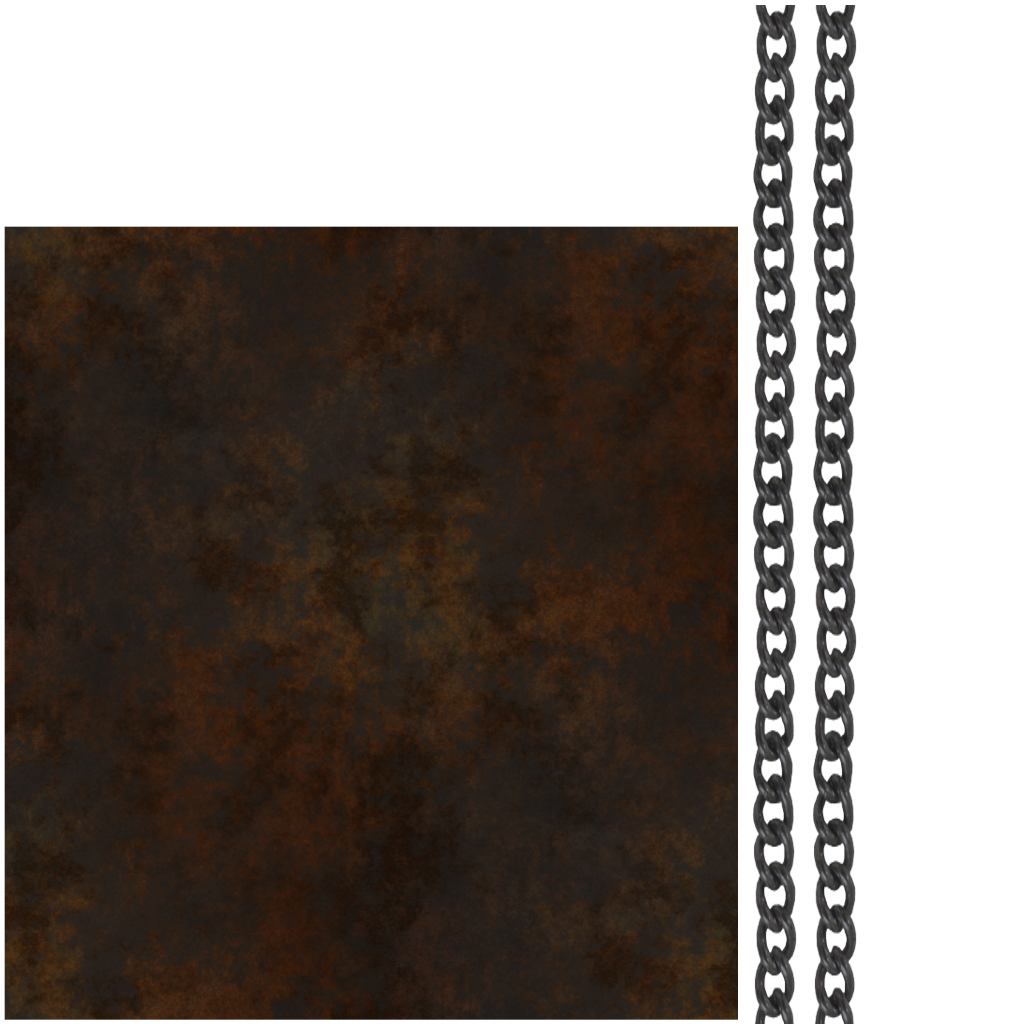
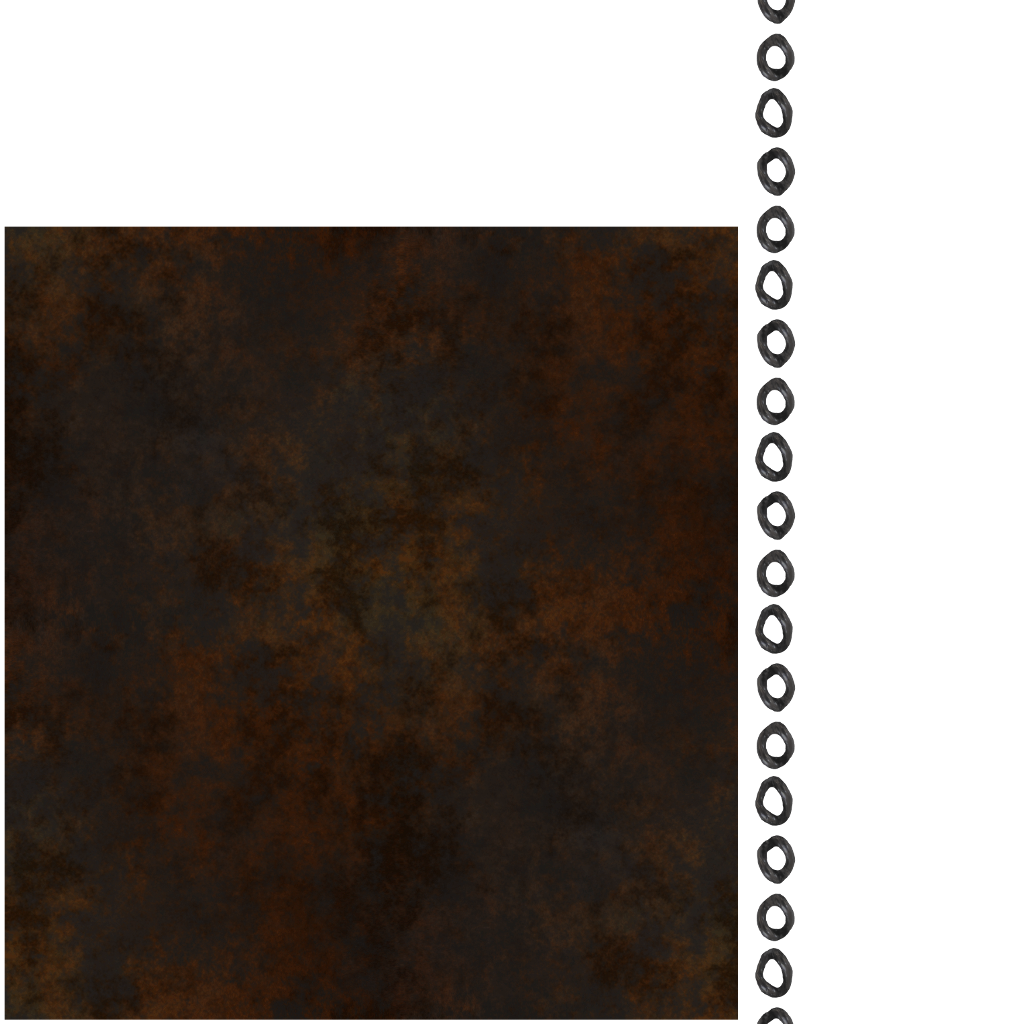
Updated torch-hanging-01.

Changed region(s): [[0.7188, 0.0, 0.8438, 1.0]]

diff --git a/assets/models/torch-hanging-01/torch-hanging-01.js b/assets/models/torch-hanging-01/torch-hanging-01.js
@@ -27,9 +27,8 @@
 		"depthTest" : true,
 		"depthWrite" : true,
 		"mapDiffuse" : "diffuse.png",
-		"mapBump" : "diffuse.png",
-		"mapBumpScale" : 0.04,
-		"mapSpecular" : "specular.png",
+		"mapNormalBump" : "normal.jpg",
+		"mapSpecular" : "specular.jpg",
 		"shading" : "Phong",
 		"specularCoef" : 70,
 		"transparency" : 0.0,
@@ -38,12 +37,12 @@
 		"doubleSided" : true
 	}],
 
-	"vertices" : [0.319362,0.0597576,-1.19188,-0.319362,0.0597576,-1.19188,-0.872513,0.0597576,-0.87252,-1.19187,0.0597576,-0.319369,-1.19187,0.0597576,0.319354,-0.872513,0.0597577,0.872505,-0.319362,0.0597577,1.19187,0.319361,0.0597577,1.19187,0.872512,0.0597577,0.872505,1.19187,0.0597576,0.319355,1.19187,0.0597576,-0.319368,0.872513,0.0597576,-0.872519,0.120244,-0.6546,-0.448757,-0.120244,-0.6546,-0.448757,-0.328513,-0.6546,-0.328513,-0.448757,-0.6546,-0.120244,-0.448757,-0.6546,0.120244,-0.328513,-0.6546,0.328513,-0.120244,-0.6546,0.448757,0.120244,-0.6546,0.448757,0.328513,-0.6546,0.328513,0.448757,-0.6546,0.120244,0.448757,-0.6546,-0.120244,0.328513,-0.6546,-0.328513,0.342681,0.221341,-1.2789,-0.342681,0.221341,-1.2789,-0.936222,0.221341,-0.936222,-1.2789,0.221341,-0.342681,-1.2789,0.221341,0.342681,-0.936222,0.221341,0.936221,-0.342681,0.221341,1.2789,0.342681,0.221341,1.2789,0.936221,0.221341,0.936222,1.2789,0.221341,0.342681,1.2789,0.221341,-0.34268,0.936222,0.221341,-0.936221,0.292752,1.05274,-1.09257,-0.292752,1.05274,-1.09257,-0.799814,1.05274,-0.799814,-1.09257,1.05274,-0.292752,-1.09257,1.05274,0.292752,-0.799814,1.05274,0.799814,-0.292752,1.05274,1.09257,0.292752,1.05274,1.09257,0.799814,1.05274,0.799814,1.09257,1.05274,0.292753,1.09257,1.05274,-0.292752,0.799815,1.05274,-0.799814,-1.14255,0.0999503,0.0012302,-1.27734,0.0999503,0.00122781,0.148086,6.54813,-8.06564e-05,-0.147259,6.54814,-8.0657e-05,1.27735,0.0999503,-0.000165127,1.14254,0.0999503,-0.000166324,-1.19187,0.0597576,0.106446,-1.19187,0.0597576,-0.106461,-0.448757,-0.6546,0.0400815,-0.448757,-0.6546,-0.0400813,1.19187,0.0597576,-0.106461,1.19187,0.0597576,0.106447,0.448757,-0.6546,-0.040081,0.448757,-0.6546,0.0400817,-1.19187,0.26242,0.106446,-1.19187,0.26242,-0.106461,1.19187,0.26242,-0.106461,1.19187,0.26242,0.106447,0.344469,0.637038,-1.28557,-0.344469,0.637038,-1.28557,1.28557,0.637038,-0.344468,0.941106,0.637038,-0.941105,1.28557,0.637038,0.344469,0.941105,0.637038,0.941106,-0.344469,0.637038,1.28557,0.344468,0.637038,1.28557,-1.28557,0.637038,0.344469,-0.941106,0.637038,0.941106,-0.941106,0.637038,-0.941106,-1.28557,0.637038,-0.344469,-1.31725,0.427358,0.0011601,-0.981599,0.427357,0.00116578,0.981623,0.427358,-0.000163474,1.31732,0.427357,-0.000160631,0.91805,-0.347396,-0.24599,0.672059,-0.347396,-0.672059,-0.672059,-0.347396,0.672059,-0.245991,-0.347396,0.918049,0.245991,-0.347396,-0.91805,-0.245991,-0.347396,-0.91805,0.24599,-0.347396,0.91805,-0.672059,-0.347396,-0.672059,0.672059,-0.347396,0.672059,-0.91805,-0.347396,-0.245991,0.918049,-0.347396,0.245991,-0.91805,-0.347396,0.245991,-0.91805,-0.347396,0.0819969,-0.91805,-0.347396,-0.0819968,0.91805,-0.347396,-0.0819964,0.91805,-0.347396,0.0819974],
+	"vertices" : [0.319362,0.159758,-1.19188,-0.319362,0.159758,-1.19188,-0.872513,0.159758,-0.87252,-1.19187,0.159758,-0.319369,-1.19187,0.159758,0.319354,-0.872513,0.159758,0.872505,-0.319362,0.159758,1.19187,0.319361,0.159758,1.19187,0.872512,0.159758,0.872505,1.19187,0.159758,0.319355,1.19187,0.159758,-0.319368,0.872513,0.159758,-0.872519,0.120244,-0.5546,-0.448757,-0.120244,-0.5546,-0.448757,-0.328513,-0.5546,-0.328513,-0.448757,-0.5546,-0.120244,-0.448757,-0.5546,0.120244,-0.328513,-0.5546,0.328513,-0.120244,-0.5546,0.448757,0.120244,-0.5546,0.448757,0.328513,-0.5546,0.328513,0.448757,-0.5546,0.120244,0.448757,-0.5546,-0.120244,0.328513,-0.5546,-0.328513,0.342681,0.321341,-1.2789,-0.342681,0.321341,-1.2789,-0.936222,0.321341,-0.936222,-1.2789,0.321341,-0.342681,-1.2789,0.321341,0.342681,-0.936222,0.321341,0.936221,-0.342681,0.321341,1.2789,0.342681,0.321341,1.2789,0.936221,0.321341,0.936222,1.2789,0.321341,0.342681,1.2789,0.321341,-0.34268,0.936222,0.321341,-0.936221,0.292752,1.15274,-1.09257,-0.292752,1.15274,-1.09257,-0.799814,1.15274,-0.799814,-1.09257,1.15274,-0.292752,-1.09257,1.15274,0.292752,-0.799814,1.15274,0.799814,-0.292752,1.15274,1.09257,0.292752,1.15274,1.09257,0.799814,1.15274,0.799814,1.09257,1.15274,0.292753,1.09257,1.15274,-0.292752,0.799815,1.15274,-0.799814,-1.19187,0.159758,0.106446,-1.19187,0.159758,-0.106461,-0.448757,-0.5546,0.0400815,-0.448757,-0.5546,-0.0400813,1.19187,0.159758,-0.106461,1.19187,0.159758,0.106447,0.448757,-0.5546,-0.040081,0.448757,-0.5546,0.0400817,-1.19187,0.36242,0.106446,-1.19187,0.36242,-0.106461,1.19187,0.36242,-0.106461,1.19187,0.36242,0.106447,0.344469,0.737038,-1.28557,-0.344469,0.737038,-1.28557,1.28557,0.737038,-0.344468,0.941106,0.737038,-0.941105,1.28557,0.737038,0.344469,0.941105,0.737038,0.941106,-0.344469,0.737038,1.28557,0.344468,0.737038,1.28557,-1.28557,0.737038,0.344469,-0.941106,0.737038,0.941106,-0.941106,0.737038,-0.941106,-1.28557,0.737038,-0.344469,0.91805,-0.247396,-0.24599,0.672059,-0.247396,-0.672059,-0.672059,-0.247396,0.672059,-0.245991,-0.247396,0.918049,0.245991,-0.247396,-0.91805,-0.245991,-0.247396,-0.91805,0.24599,-0.247396,0.91805,-0.672059,-0.247396,-0.672059,0.672059,-0.247396,0.672059,-0.91805,-0.247396,-0.245991,0.918049,-0.247396,0.245991,-0.91805,-0.247396,0.245991,-0.91805,-0.247396,0.0819969,-0.91805,-0.247396,-0.0819968,0.91805,-0.247396,-0.0819964,0.91805,-0.247396,0.0819973,-1.05292,0.216035,-0.00135771,-1.34371,0.27047,-0.00135771,0.146057,6.62092,-0.00135802,-0.144733,6.67536,-0.00135803,-1.19831,0.243252,-0.149278,-1.19831,0.243252,0.146563,0.000661684,6.64814,-0.149278,0.00066167,6.64814,0.146562,-1.05292,0.216035,-0.00135771,-1.34371,0.27047,-0.00135771,0.146057,6.62092,-0.00135802,-0.144733,6.67536,-0.00135803,-1.19831,0.243252,-0.149278,-1.19831,0.243252,0.146563,0.000661684,6.64814,-0.149278,0.00066167,6.64814,0.146562,1.05292,0.216035,0.00135778,1.34371,0.27047,0.0013578,-0.146057,6.62092,0.00135743,0.144733,6.67536,0.00135745,1.19831,0.243252,0.149278,1.19831,0.243252,-0.146563,-0.000661697,6.64814,0.149278,-0.000661657,6.64814,-0.146563,1.05292,0.216035,0.00135778,1.34371,0.27047,0.0013578,-0.146057,6.62092,0.00135743,0.144733,6.67536,0.00135745,1.19831,0.243252,0.149278,1.19831,0.243252,-0.146563,-0.000661697,6.64814,0.149278,-0.000661657,6.64814,-0.146563],
 
-	"normals" : [0.500351,-0.706565,-0.500351,0.683523,-0.706565,-0.183142,0.308847,-0.947478,-0.082797,0.226081,-0.947478,-0.226173,-0.183142,-0.706565,0.683523,-0.500351,-0.706565,0.500351,-0.226142,-0.947478,0.226051,-0.082797,-0.947478,0.308847,-0.183142,-0.706565,-0.683523,0.183142,-0.706565,-0.683523,0.082736,-0.947447,-0.308939,-0.082766,-0.947447,-0.308939,0.183142,-0.706565,0.683523,0.082736,-0.947478,0.308847,-0.500351,-0.706565,-0.500351,-0.226142,-0.947447,-0.226173,0.500351,-0.706565,0.500351,0.226081,-0.947478,0.226081,-0.683523,-0.706565,-0.183142,-0.308908,-0.947447,-0.082797,0.683523,-0.706565,0.183142,0.308847,-0.947478,0.082705,-0.702689,-0.711478,0,-0.285775,-0.958281,-6.1e-05,0.702689,-0.711478,0,0.285714,-0.958281,-3.1e-05,-0.683523,-0.706565,0.183142,-0.308908,-0.947478,0.082705,-0.840266,-0.242042,-0.485122,-0.654164,-0.538469,-0.531083,-0.787011,-0.538469,-0.301004,-0.840266,-0.242073,0.485122,-0.840236,-0.242073,0.485122,-0.787011,-0.538499,0.300974,-0.654164,-0.538469,0.531083,0,-0.242073,0.970244,-0.132817,-0.538499,0.832057,0.132817,-0.538499,0.832057,0.840236,-0.242073,0.485122,0.840266,-0.242073,0.485122,0.654164,-0.538469,0.531083,0.787011,-0.538499,0.300974,0.840266,-0.242042,-0.485122,0.787011,-0.538469,-0.301004,0.654164,-0.538469,-0.531083,0.132817,-0.538469,-0.832087,-0.132817,-0.538469,-0.832087,0,-0.242042,-0.970244,0.848567,0.199744,-0.489914,0,0.199744,-0.979827,-0.848567,0.199744,0.489914,0.848567,0.199744,0.489914,-0.848567,0.199744,-0.489914,0,0.199744,0.979827,0,-0.000183,-0.999969,0,-0.000183,-1,0,0,-1,0,-9.2e-05,-1,0,-6.1e-05,-0.999969,0.922086,-0.386944,0,1,0,0,-0.922086,-0.386944,0,-1,0,0,0,0.421094,-0.90698,0.785485,0.421094,-0.453475,0.785485,0.421094,0.453475,0,0.421094,0.90698,-0.785485,0.421094,0.453475,-0.785485,0.421094,-0.453475,0,0,-0.999969],
+	"normals" : [0.500351,-0.706565,-0.500351,0.683523,-0.706565,-0.183142,0.308847,-0.947478,-0.082797,0.226081,-0.947478,-0.226173,-0.183142,-0.706565,0.683523,-0.500351,-0.706565,0.500351,-0.226142,-0.947478,0.226081,-0.082797,-0.947478,0.308847,-0.183142,-0.706565,-0.683523,0.183142,-0.706565,-0.683523,0.082736,-0.947447,-0.308939,-0.082766,-0.947447,-0.308939,0.183142,-0.706565,0.683523,0.082736,-0.947478,0.308847,-0.500351,-0.706565,-0.500351,-0.226142,-0.947447,-0.226142,0.500351,-0.706565,0.500351,0.226081,-0.947478,0.226081,-0.683523,-0.706565,-0.183142,-0.308908,-0.947447,-0.082797,0.683523,-0.706565,0.183142,0.308847,-0.947478,0.082705,-0.702689,-0.711478,0,-0.285775,-0.958281,-3.1e-05,0.702689,-0.711478,0,0.285745,-0.958281,-3.1e-05,-0.683523,-0.706565,0.183142,-0.308908,-0.947478,0.082705,-0.840266,-0.242042,-0.485122,-0.654164,-0.538469,-0.531083,-0.787011,-0.538469,-0.301004,-0.840266,-0.242073,0.485122,-0.840236,-0.242073,0.485122,-0.787011,-0.538499,0.300974,-0.654164,-0.538469,0.531083,0,-0.242073,0.970244,-0.132817,-0.538499,0.832057,0.132817,-0.538499,0.832057,0.840236,-0.242073,0.485122,0.840266,-0.242073,0.485122,0.654164,-0.538469,0.531083,0.787011,-0.538499,0.300974,0.840266,-0.242042,-0.485122,0.787011,-0.538469,-0.301004,0.654164,-0.538469,-0.531083,0.132817,-0.538469,-0.832087,-0.132817,-0.538469,-0.832087,0,-0.242042,-0.970244,0.285714,-0.958281,-3.1e-05,0.848567,0.199744,-0.489914,0,0.199744,-0.979827,-0.848567,0.199744,0.489914,0.848567,0.199744,0.489914,-0.848567,0.199744,-0.489914,0,0.199744,0.979827,0.922086,-0.386944,0,1,0,0,-0.922086,-0.386944,0,-1,0,0,0,0.421094,-0.90698,0.785485,0.421094,-0.453475,0.785485,0.421094,0.453475,0,0.421094,0.90698,-0.785485,0.421094,0.453475,-0.785485,0.421094,-0.453475,0,0,0.999969,0,0,1,0.98291,-0.183996,0,0,0,-0.999969,0,0,-1,-0.98291,-0.183996,0],
 
-	"uvs" : [[0.449168,0.285721,0.481921,0.342015,0.415339,0.359483,0.400678,0.334763,0.330141,0.487503,0.276409,0.457591,0.322153,0.40867,0.346802,0.422962,0.329978,0.253051,0.393674,0.253816,0.376234,0.320114,0.34773,0.319626,0.391332,0.487271,0.375109,0.422814,0.27388,0.284234,0.322635,0.333524,0.445442,0.458487,0.400098,0.409417,0.240791,0.340445,0.307545,0.358279,0.479205,0.406101,0.414981,0.384988,0.240304,0.362025,0.307414,0.366878,0.481418,0.385028,0.415271,0.376512,0.242992,0.404697,0.307571,0.384027,0.12991,0.304585,0.189555,0.205553,0.229052,0.238084,0.177745,0.323386,0.202137,0.53242,0.144141,0.446791,0.18488,0.426332,0.236252,0.50218,0.410866,0.589212,0.309714,0.589211,0.315491,0.544998,0.40509,0.544999,0.577431,0.449152,0.518598,0.534024,0.484861,0.503462,0.536975,0.428283,0.534058,0.20761,0.592723,0.306956,0.544995,0.325491,0.49437,0.239925,0.409923,0.193149,0.31408,0.192078,0.308429,0.144714,0.416632,0.145924,0.307391,0.375484,0.415358,0.367985,0.594691,0.170904,0.655083,0.271638,0.308881,0.079073,0.417648,0.08029,0.150344,0.567824,0.092046,0.481749,0.62907,0.48462,0.56993,0.569935,0.067739,0.268651,0.129125,0.168248,0.41113,0.650572,0.30945,0.650571,0.732414,0.061502,0.746382,0.010043,0.765005,0.006807,0.778791,0.053443,0.794992,0.053392,0.841344,0.061618,0.837899,0.993193,0.794992,0.985577,0.24096,0.38355,0.482249,0.363561,0.543444,0.395274,0.546182,0.360605,0.580903,0.363347,0.578165,0.398016,0.176283,0.358523,0.178727,0.393239,0.143959,0.395686,0.141515,0.36097,0.317855,0.006807,0.410292,0.00784,0.666239,0.13829,0.717564,0.2239,0.681387,0.530367,0.631126,0.602874,0.403496,0.718215,0.317082,0.718215,0.088706,0.600146,0.03916,0.526994,0.005553,0.220277,0.057723,0.134948,0.732415,0.993103,0.775349,0.985643,0.808952,0.006807,0.827565,0.01011]],
+	"uvs" : [[0.441406,0.330078,0.47168,0.382812,0.407227,0.399414,0.393555,0.37793,0.330078,0.515625,0.28125,0.488281,0.325195,0.442383,0.34668,0.454102,0.330078,0.300781,0.388672,0.300781,0.37207,0.365234,0.34668,0.365234,0.386719,0.516602,0.37207,0.454102,0.27832,0.330078,0.325195,0.376953,0.436523,0.490234,0.393555,0.442383,0.24707,0.381836,0.311523,0.398438,0.46875,0.441406,0.407227,0.420898,0.24707,0.402344,0.311523,0.40625,0.470703,0.422852,0.407227,0.414062,0.249023,0.44043,0.311523,0.420898,0.151367,0.354492,0.208008,0.260742,0.230469,0.280273,0.179688,0.364258,0.222656,0.553711,0.166992,0.477539,0.189453,0.464844,0.240234,0.536133,0.404297,0.600586,0.313477,0.599609,0.316406,0.575195,0.400391,0.576172,0.550781,0.478516,0.495117,0.554688,0.477539,0.537109,0.52832,0.466797,0.511719,0.261719,0.567383,0.355469,0.539062,0.365234,0.489258,0.28125,0.40625,0.237305,0.313477,0.237305,0.30957,0.209961,0.410156,0.209961,0.311523,0.414062,0.407227,0.40625,0.569336,0.226562,0.628906,0.322266,0.30957,0.149414,0.410156,0.149414,0.176758,0.586914,0.121094,0.509766,0.59668,0.511719,0.541016,0.587891,0.09082,0.319336,0.150391,0.224609,0.40332,0.655273,0.3125,0.655273,0.248047,0.421875,0.47168,0.40332,0.537109,0.43457,0.541016,0.400391,0.573242,0.404297,0.569336,0.438477,0.177734,0.398438,0.181641,0.433594,0.149414,0.436523,0.145508,0.402344,0.317383,0.083008,0.402344,0.083008,0.637695,0.194336,0.6875,0.275391,0.642578,0.554688,0.595703,0.619141,0.396484,0.716797,0.318359,0.71582,0.121094,0.617188,0.074219,0.552734,0.032227,0.272461,0.083008,0.192383,0.77832,0.970703,0.736328,0.970703,0.736328,0.029297,0.77832,0.029297,0.77832,0.945312,0.736328,0.945312,0.736328,0.003906,0.77832,0.003906,0.821289,0.970703,0.821289,0.029297]],
 
-	"faces" : [43,83,82,22,23,0,0,1,2,3,0,1,2,3,43,85,84,17,18,0,4,5,6,7,4,5,6,7,43,87,86,12,13,0,8,9,10,11,8,9,10,11,43,83,23,12,86,0,0,3,10,9,0,3,10,9,43,88,85,18,19,0,12,4,7,13,12,4,7,13,43,89,87,13,14,0,14,8,11,15,14,8,11,15,43,90,88,19,20,0,16,12,13,17,16,12,13,17,43,91,89,14,15,0,18,14,15,19,18,14,15,19,43,92,90,20,21,0,20,16,17,21,20,16,17,21,43,95,91,15,57,0,22,18,19,23,22,18,19,23,43,97,92,21,61,0,24,20,21,25,24,20,21,25,43,84,93,16,17,0,5,26,27,6,5,26,27,6,43,27,26,2,3,0,28,29,30,31,28,28,29,30,43,29,28,4,5,0,32,33,34,35,31,32,33,34,43,31,30,6,7,0,36,37,38,39,35,35,36,37,43,33,32,8,9,0,40,41,42,43,38,39,40,41,43,35,34,10,11,0,44,45,46,47,42,42,43,44,43,0,1,25,24,0,48,49,50,51,45,46,47,47,42,20,19,18,0,17,13,7,17,13,7,42,20,18,17,0,17,7,6,17,7,6,42,21,20,17,0,21,17,6,21,17,6,42,21,17,16,0,21,6,27,21,6,27,42,61,21,16,0,25,21,27,25,21,27,42,61,16,56,0,25,27,52,25,27,23,42,60,61,56,0,53,25,52,25,25,23,42,60,56,57,0,53,52,23,25,23,23,42,22,60,57,0,2,53,23,2,25,23,42,22,57,15,0,2,23,19,2,23,19,42,23,22,15,0,3,2,19,3,2,19,42,14,23,15,0,15,3,19,15,3,19,42,14,12,23,0,15,10,3,15,10,3,42,14,13,12,0,15,11,10,15,11,10,43,69,68,34,35,0,54,55,45,44,48,48,42,42,43,67,66,24,25,0,56,57,51,50,49,49,47,47,43,75,74,28,29,0,58,59,33,32,50,50,32,31,43,70,71,32,33,0,60,61,41,40,51,51,39,38,43,77,76,26,27,0,62,63,29,28,52,52,28,28,43,73,72,30,31,0,64,65,37,36,53,53,35,35,43,79,48,49,78,0,66,67,68,69,54,55,54,55,43,81,80,51,50,0,70,71,72,73,56,56,57,58,43,93,94,56,16,0,26,74,52,27,26,22,23,27,43,94,95,57,56,0,74,22,23,52,22,22,23,23,43,82,96,60,22,0,1,75,53,2,1,24,25,2,43,96,97,61,60,0,75,24,25,53,24,24,25,25,43,59,58,64,65,0,76,77,78,79,59,59,60,60,43,55,54,62,63,0,80,81,82,83,61,61,62,62,43,37,36,66,67,0,84,85,57,56,63,63,49,49,43,47,46,68,69,0,86,87,55,54,64,64,48,48,43,45,44,71,70,0,88,89,61,60,65,65,51,51,43,43,42,72,73,0,90,91,65,64,66,66,53,53,43,41,40,74,75,0,92,93,59,58,67,67,50,50,43,39,38,76,77,0,94,95,63,62,68,68,52,52,43,50,79,78,51,0,96,66,69,97,58,54,55,57,43,52,53,80,81,0,98,99,71,70,56,69,56,56,43,11,10,82,83,0,47,46,1,0,44,43,1,0,43,6,5,84,85,0,38,35,5,4,36,34,5,4,43,1,0,86,87,0,49,48,9,8,46,45,9,8,43,86,0,11,83,0,9,48,47,0,9,45,44,0,43,7,6,85,88,0,39,38,4,12,37,36,4,12,43,2,1,87,89,0,30,49,8,14,29,46,8,14,43,8,7,88,90,0,42,39,12,16,40,37,12,16,43,3,2,89,91,0,31,30,14,18,30,29,14,18,43,9,8,90,92,0,43,42,16,20,41,40,16,20,43,55,3,91,95,0,80,31,18,22,61,30,18,22,43,59,9,92,97,0,76,43,20,24,59,41,20,24,43,5,4,93,84,0,35,34,26,5,34,33,26,5,43,4,54,94,93,0,34,81,74,26,33,61,22,26,43,54,55,95,94,0,81,80,22,74,61,61,22,22,43,10,58,96,82,0,46,77,75,1,43,59,24,1,43,58,59,97,96,0,77,76,24,75,59,59,24,24]
+	"faces" : [43,73,72,22,23,0,0,1,2,3,0,1,2,3,43,75,74,17,18,0,4,5,6,7,4,5,6,7,43,77,76,12,13,0,8,9,10,11,8,9,10,11,43,73,23,12,76,0,0,3,10,9,0,3,10,9,43,78,75,18,19,0,12,4,7,13,12,4,7,13,43,79,77,13,14,0,14,8,11,15,14,8,11,15,43,80,78,19,20,0,16,12,13,17,16,12,13,17,43,81,79,14,15,0,18,14,15,19,18,14,15,19,43,82,80,20,21,0,20,16,17,21,20,16,17,21,43,85,81,15,51,0,22,18,19,23,22,18,19,23,43,87,82,21,55,0,24,20,21,25,24,20,21,25,43,74,83,16,17,0,5,26,27,6,5,26,27,6,43,27,26,2,3,0,28,29,30,31,28,28,29,30,43,29,28,4,5,0,32,33,34,35,31,32,33,34,43,31,30,6,7,0,36,37,38,39,35,35,36,37,43,33,32,8,9,0,40,41,42,43,38,39,40,41,43,35,34,10,11,0,44,45,46,47,42,42,43,44,43,0,1,25,24,0,48,49,50,51,45,46,47,47,42,20,19,18,0,17,13,7,17,13,7,42,20,18,17,0,17,7,6,17,7,6,42,21,20,17,0,21,17,6,21,17,6,42,21,17,16,0,21,6,27,21,6,27,42,55,21,16,0,25,21,27,25,21,27,42,55,16,50,0,25,27,52,25,27,23,42,54,55,50,0,53,25,52,48,25,23,42,54,50,51,0,53,52,23,48,23,23,42,22,54,51,0,2,53,23,2,48,23,42,22,51,15,0,2,23,19,2,23,19,42,23,22,15,0,3,2,19,3,2,19,42,14,23,15,0,15,3,19,15,3,19,42,14,12,23,0,15,10,3,15,10,3,42,14,13,12,0,15,11,10,15,11,10,43,63,62,34,35,0,54,55,45,44,49,49,42,42,43,61,60,24,25,0,56,57,51,50,50,50,47,47,43,69,68,28,29,0,58,59,33,32,51,51,32,31,43,64,65,32,33,0,60,61,41,40,52,52,39,38,43,71,70,26,27,0,62,63,29,28,53,53,28,28,43,67,66,30,31,0,64,65,37,36,54,54,35,35,43,83,84,50,16,0,26,66,52,27,26,22,23,27,43,84,85,51,50,0,66,22,23,52,22,22,23,23,43,72,86,54,22,0,1,67,53,2,1,24,48,2,43,86,87,55,54,0,67,24,25,53,24,24,25,48,43,53,52,58,59,0,68,69,70,71,55,55,56,56,43,49,48,56,57,0,72,73,74,75,57,57,58,58,43,37,36,60,61,0,76,77,57,56,59,59,50,50,43,47,46,62,63,0,78,79,55,54,60,60,49,49,43,45,44,65,64,0,80,81,61,60,61,61,52,52,43,43,42,66,67,0,82,83,65,64,62,62,54,54,43,41,40,68,69,0,84,85,59,58,63,63,51,51,43,39,38,70,71,0,86,87,63,62,64,64,53,53,43,11,10,72,73,0,47,46,1,0,44,43,1,0,43,6,5,74,75,0,38,35,5,4,36,34,5,4,43,1,0,76,77,0,49,48,9,8,46,45,9,8,43,76,0,11,73,0,9,48,47,0,9,45,44,0,43,7,6,75,78,0,39,38,4,12,37,36,4,12,43,2,1,77,79,0,30,49,8,14,29,46,8,14,43,8,7,78,80,0,42,39,12,16,40,37,12,16,43,3,2,79,81,0,31,30,14,18,30,29,14,18,43,9,8,80,82,0,43,42,16,20,41,40,16,20,43,49,3,81,85,0,72,31,18,22,57,30,18,22,43,53,9,82,87,0,68,43,20,24,55,41,20,24,43,5,4,83,74,0,35,34,26,5,34,33,26,5,43,4,48,84,83,0,34,73,66,26,33,57,22,26,43,48,49,85,84,0,73,72,22,66,57,57,22,22,43,10,52,86,72,0,46,69,67,1,43,55,24,1,43,52,53,87,86,0,69,68,24,67,55,55,24,24,43,90,91,89,88,0,88,89,90,91,65,66,66,66,43,94,95,93,92,0,88,89,90,91,67,67,67,67,43,98,99,97,96,0,88,89,90,91,65,66,66,66,43,102,103,101,100,0,92,93,94,95,67,67,67,67,43,106,107,105,104,0,88,89,90,91,68,69,69,69,43,110,111,109,108,0,96,88,91,97,70,70,70,70,43,114,115,113,112,0,88,89,90,91,68,69,69,69,43,118,119,117,116,0,92,93,94,95,70,70,70,70]
 
 }
